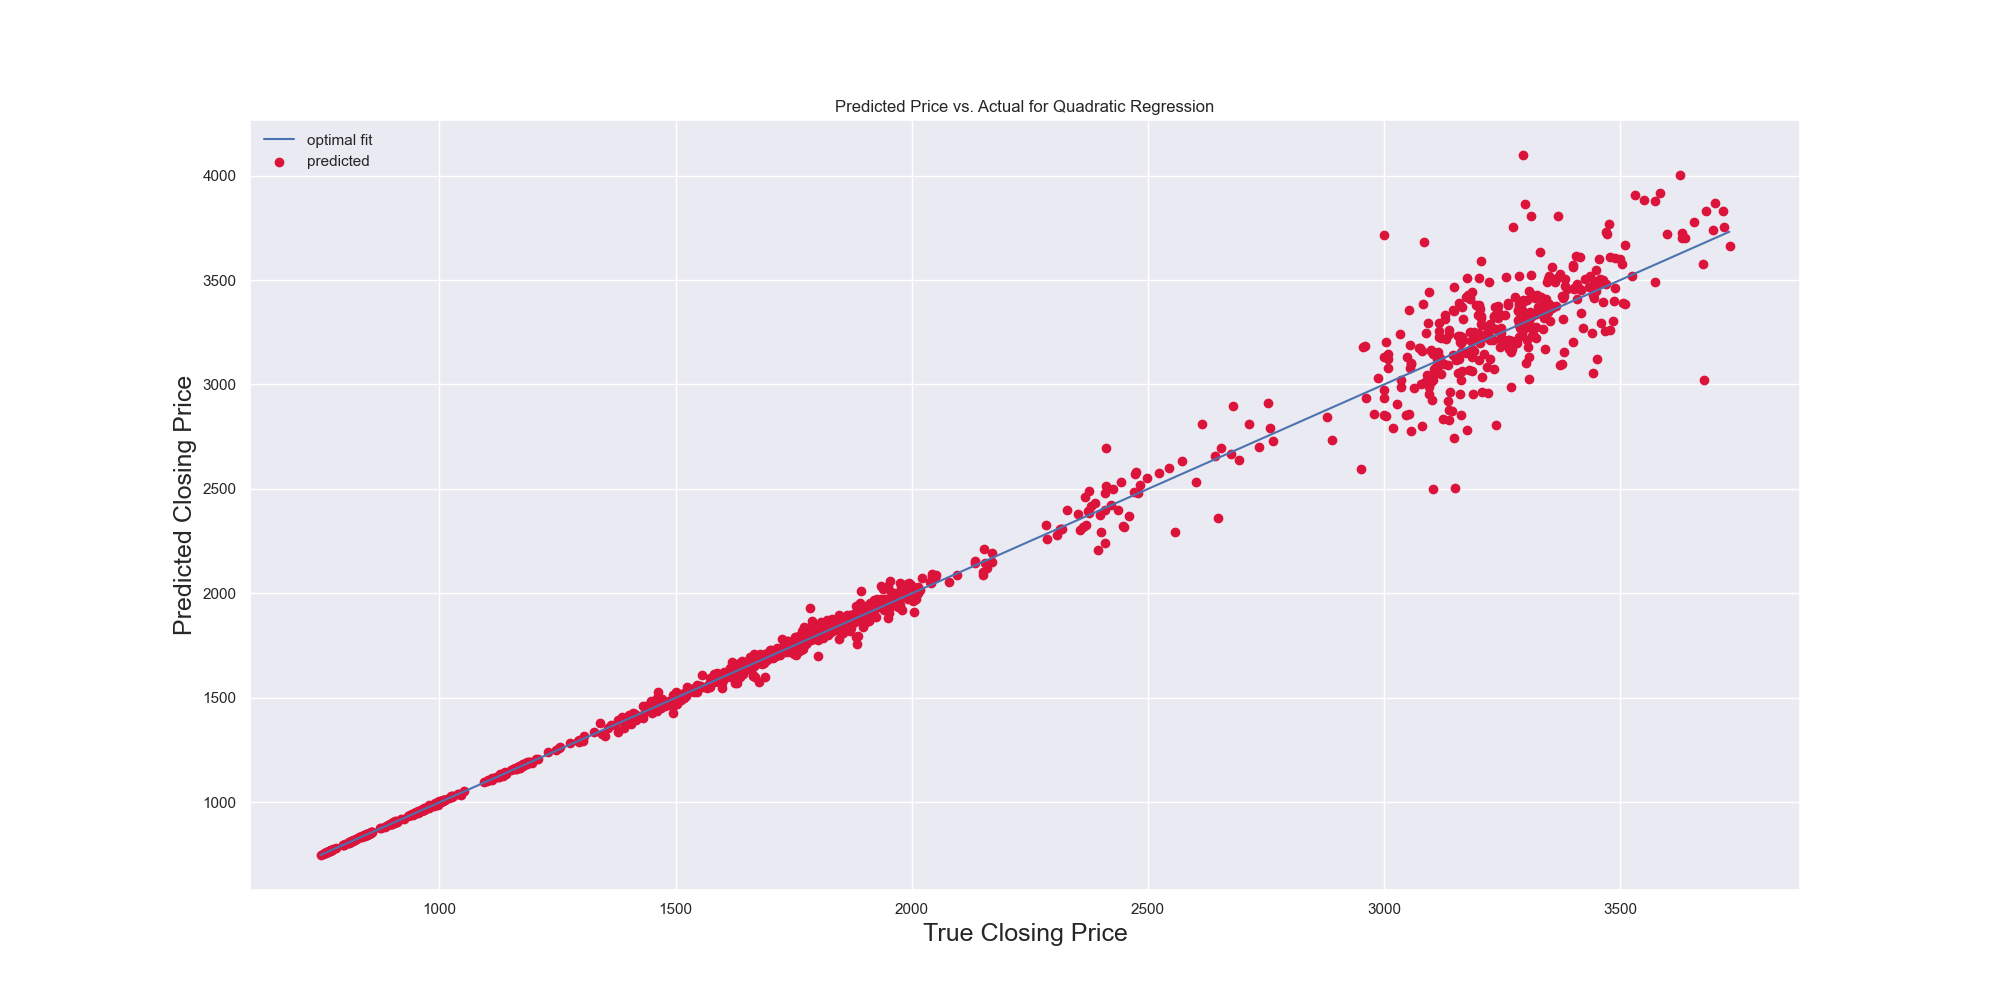
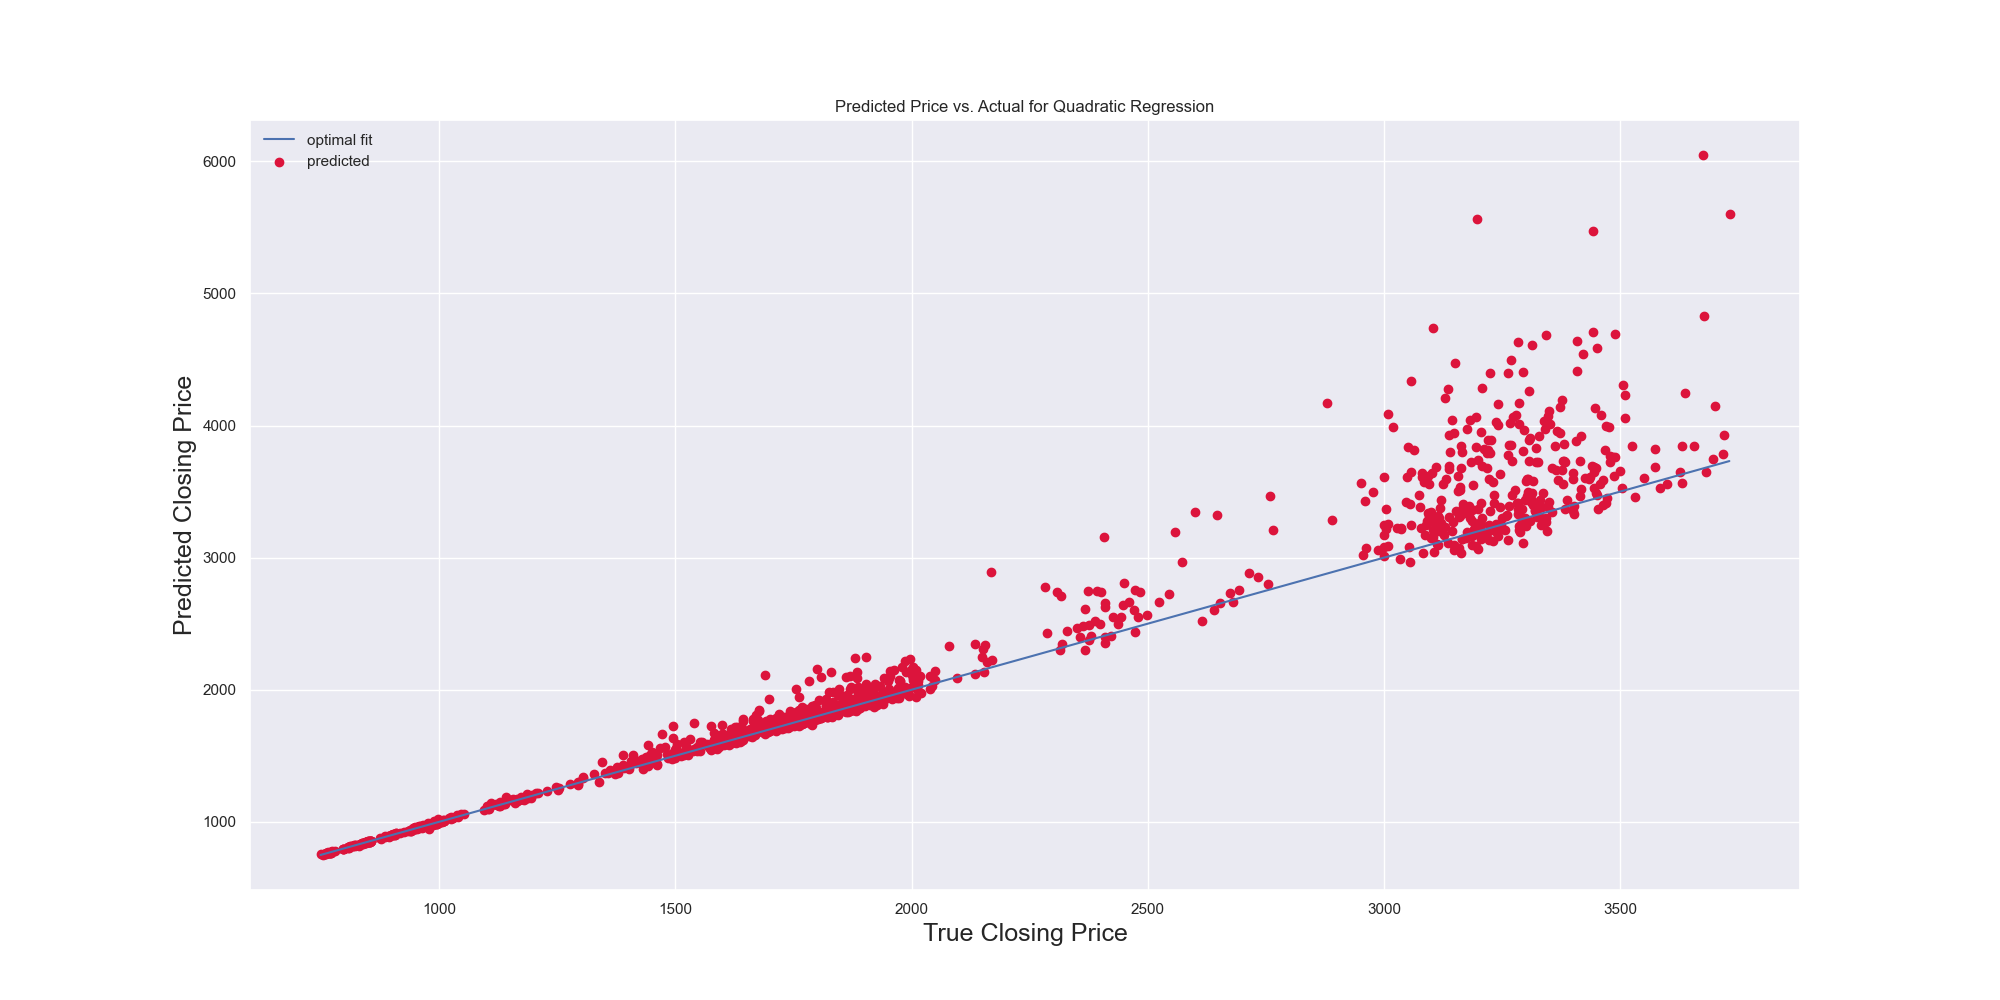
Took the close out of the features

diff --git a/scrape.py b/scrape.py
@@ -79,7 +79,7 @@ plt.show() if args.showfigs else plt.clf()
 #y = v[:,6]   # create y data using adjusted closing price -> target
 
 features = ['Date','Low','Open','Volume','High','Close']
-features_nodate = ['Low','Open','Volume','High','Close']
+features_nodate = ['Low','Open','Volume','High']
 target = ['Adjusted Close']
 X = df[features_nodate]
 y = df[target]
